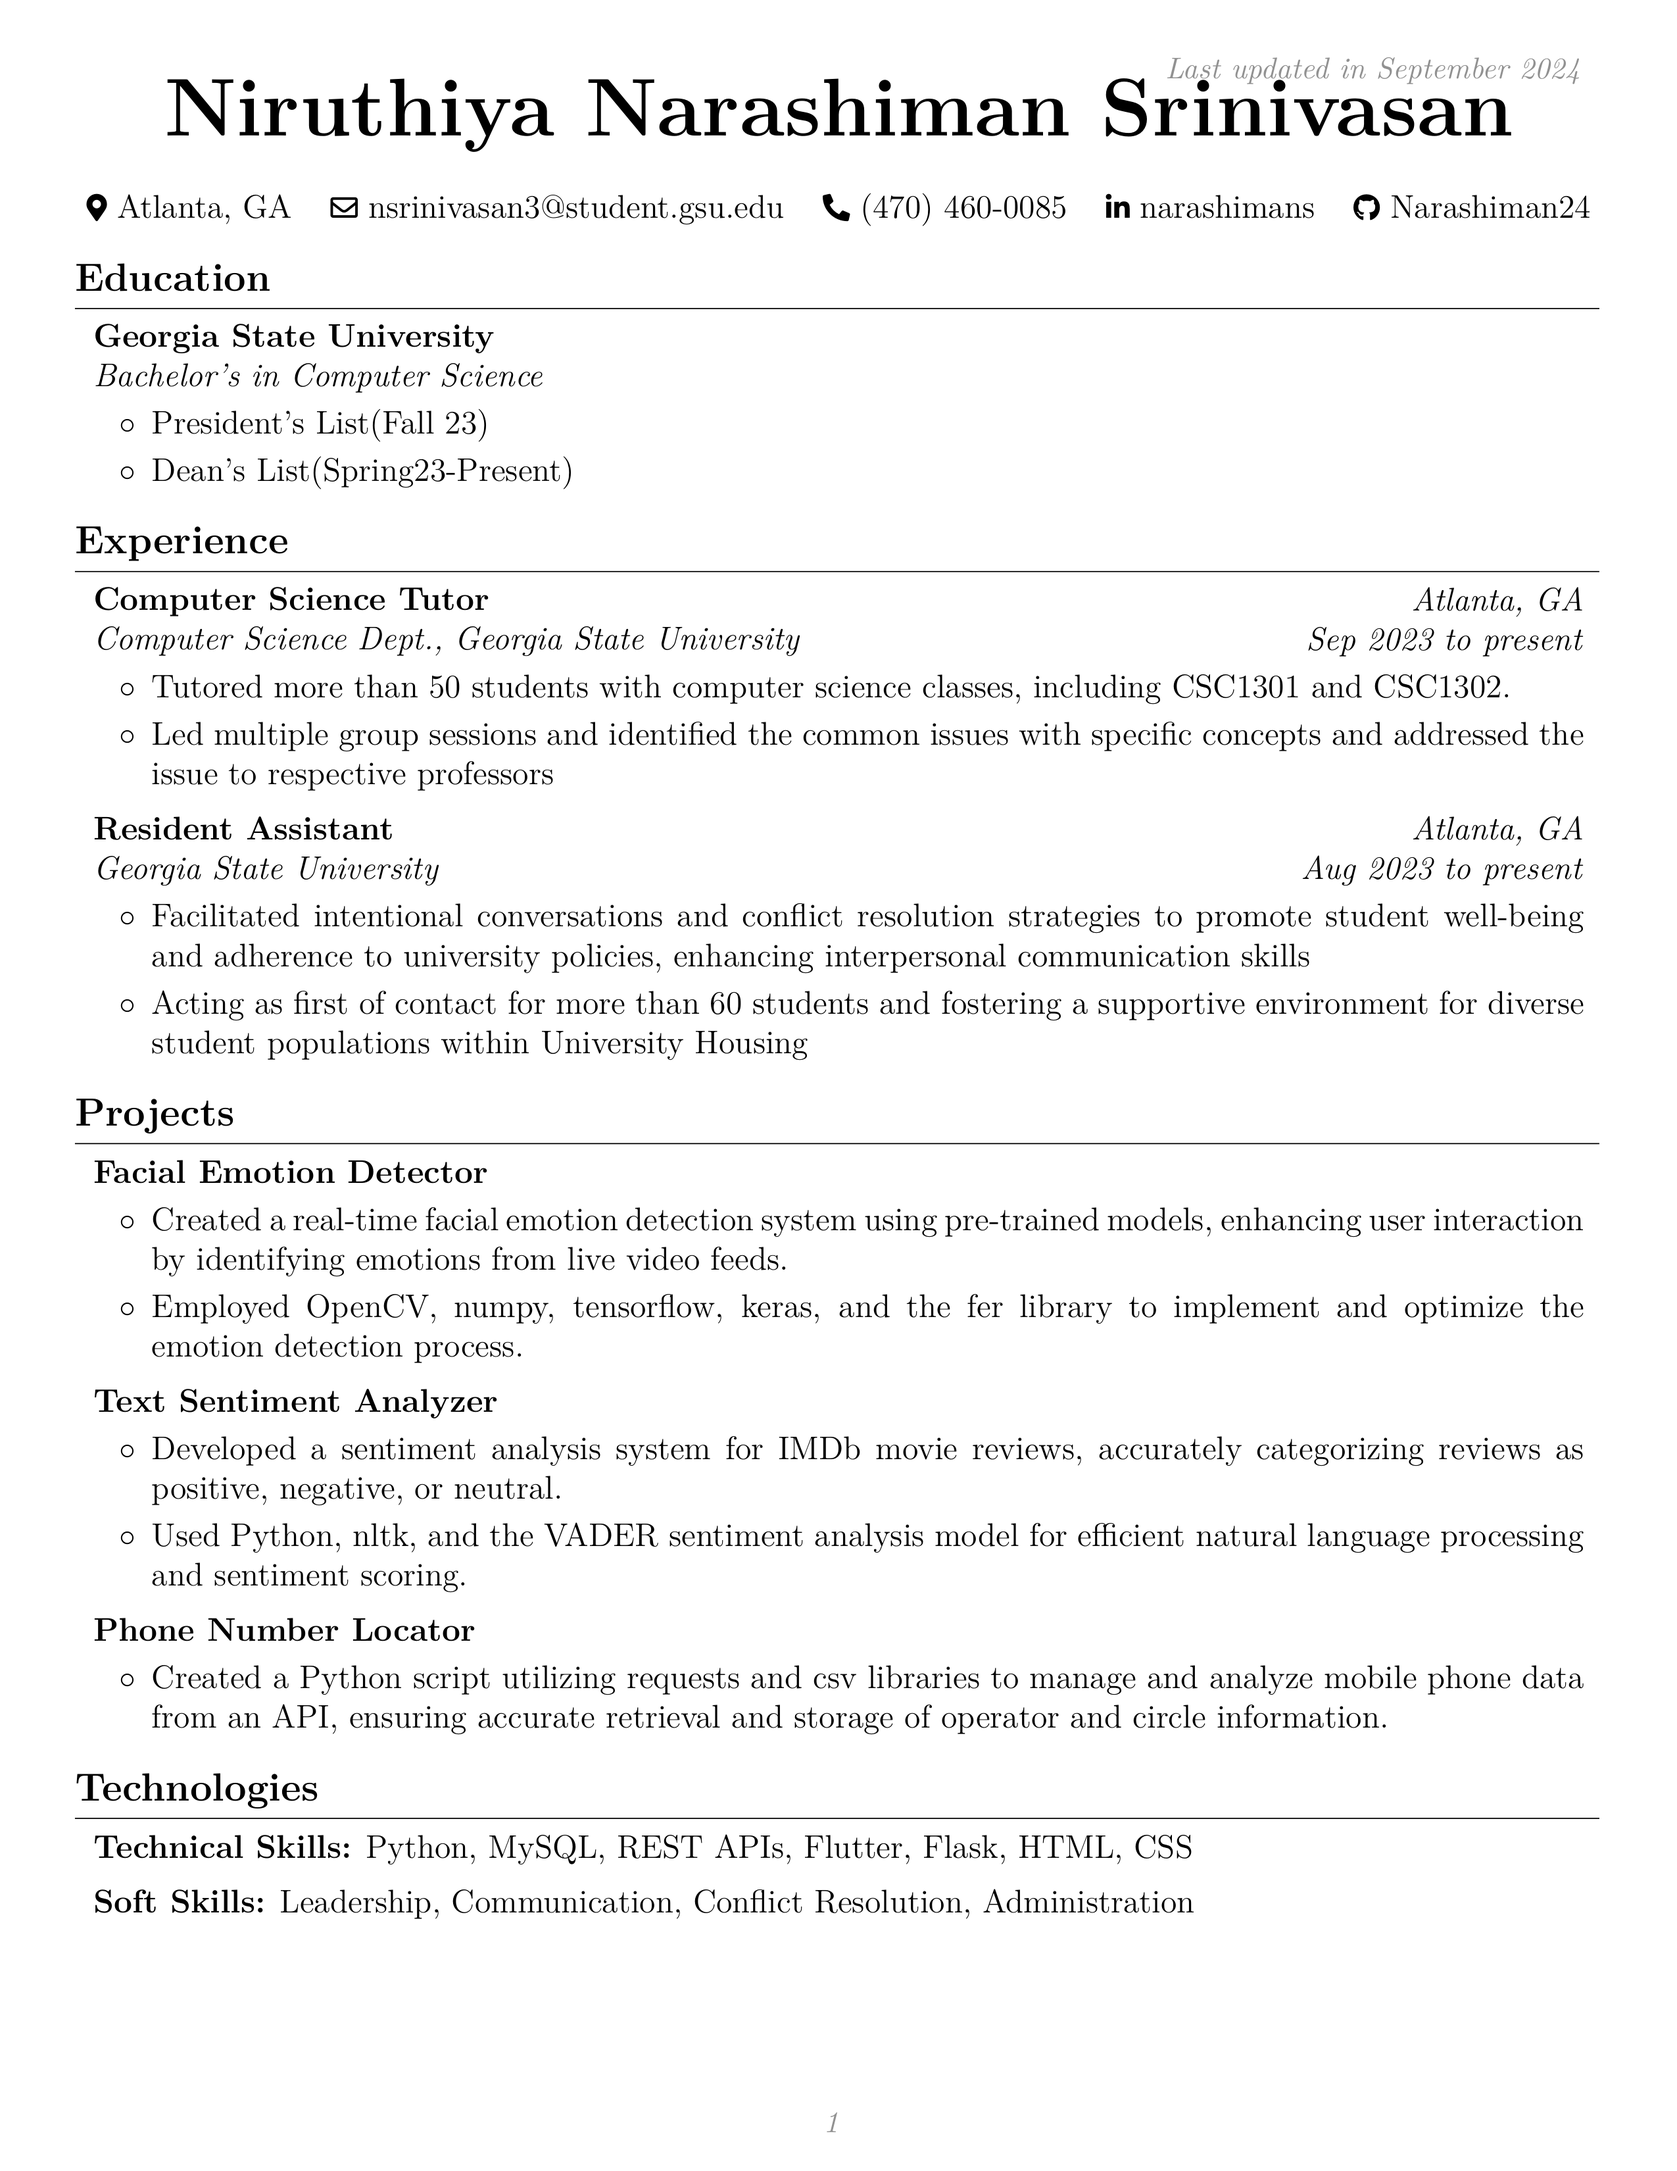
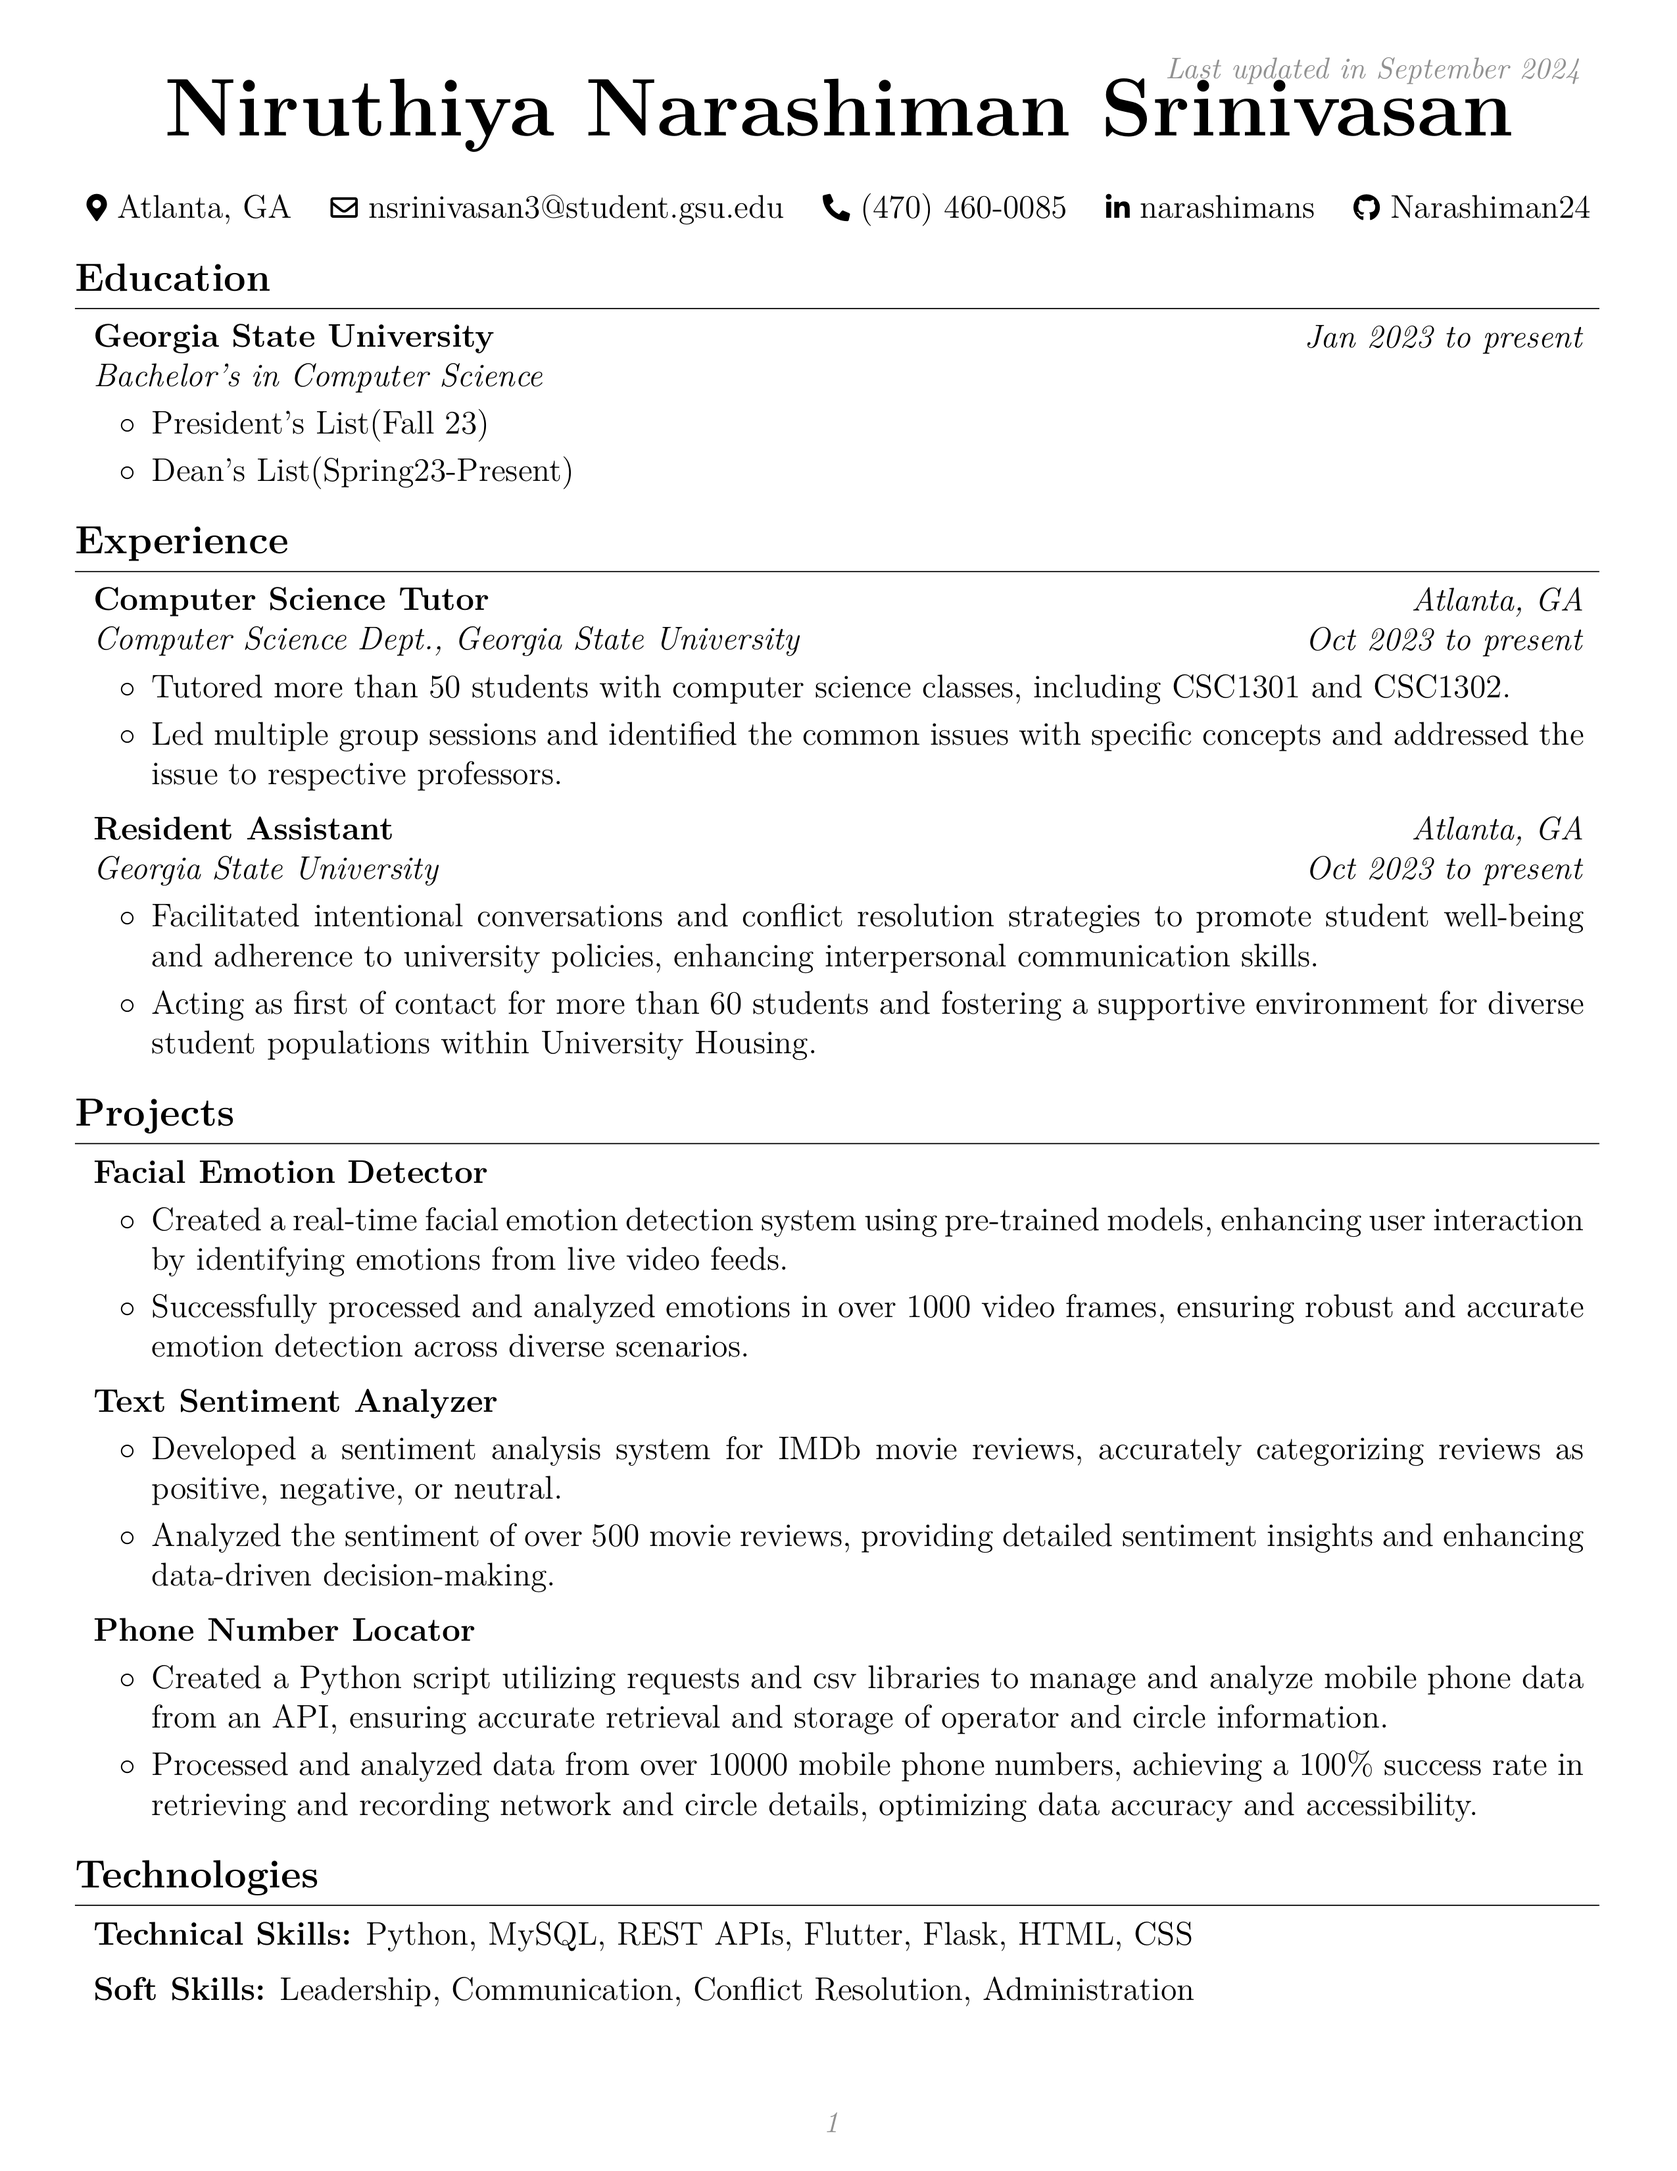
add command to python script
Add the render command into python script to skip a additional step

diff --git a/rendercv_output/Niruthiya_Narashiman_Srinivasan_CV.html b/rendercv_output/Niruthiya_Narashiman_Srinivasan_CV.html
@@ -42,38 +42,40 @@
         <h1>Education</h1>
         <h2>Georgia State University, Bachelor’s in Computer Science</h2>
         <ul>
+        <li>Jan 2023 to present</li>
         <li>President’s List(Fall 23)</li>
         <li>Dean’s List(Spring23-Present)</li>
         </ul>
         <h1>Experience</h1>
         <h2>Computer Science Dept., Georgia State University, Computer Science Tutor</h2>
         <ul>
-        <li>Sep 2023 to present</li>
+        <li>Oct 2023 to present</li>
         <li>Atlanta, GA</li>
         <li>Tutored more than 50 students with computer science classes, including CSC1301 and CSC1302.</li>
-        <li>Led multiple group sessions and identified the common issues with specific concepts and addressed the issue to respective professors</li>
+        <li>Led multiple group sessions and identified the common issues with specific concepts and addressed the issue to respective professors.</li>
         </ul>
         <h2>Georgia State University, Resident Assistant</h2>
         <ul>
-        <li>Aug 2023 to present</li>
+        <li>Oct 2023 to present</li>
         <li>Atlanta, GA</li>
-        <li>Facilitated intentional conversations and conflict resolution strategies to promote student well-being and adherence to university policies, enhancing interpersonal communication skills</li>
-        <li>Acting as first of contact for more than 60 students and fostering a supportive environment for diverse student populations within University Housing</li>
+        <li>Facilitated intentional conversations and conflict resolution strategies to promote student well-being and adherence to university policies, enhancing interpersonal communication skills.</li>
+        <li>Acting as first of contact for more than 60 students and fostering a supportive environment for diverse student populations within University Housing.</li>
         </ul>
         <h1>Projects</h1>
         <h2>Facial Emotion Detector</h2>
         <ul>
         <li>Created a real-time facial emotion detection system using pre-trained models, enhancing user interaction by identifying emotions from live video feeds.</li>
-        <li>Employed OpenCV, numpy, tensorflow, keras, and the fer library to implement and optimize the emotion detection process.</li>
+        <li>Successfully processed and analyzed emotions in over 1000 video frames, ensuring robust and accurate emotion detection across diverse scenarios.</li>
         </ul>
         <h2>Text Sentiment Analyzer</h2>
         <ul>
         <li>Developed a sentiment analysis system for IMDb movie reviews, accurately categorizing reviews as positive, negative, or neutral.</li>
-        <li>Used Python, nltk, and the VADER sentiment analysis model for efficient natural language processing and sentiment scoring.</li>
+        <li>Analyzed the sentiment of over 500 movie reviews, providing detailed sentiment insights and enhancing data-driven decision-making.</li>
         </ul>
         <h2>Phone Number Locator</h2>
         <ul>
         <li>Created a Python script utilizing requests and csv libraries to manage and analyze mobile phone data from an API, ensuring accurate retrieval and storage of operator and circle information.</li>
+        <li>Processed and analyzed data from over 10000 mobile phone numbers, achieving a 100% success rate in retrieving and recording network and circle details, optimizing data accuracy and accessibility.</li>
         </ul>
         <h1>Technologies</h1>
         <ul>

diff --git a/rendercv_output/Niruthiya_Narashiman_Srinivasan_CV.tex b/rendercv_output/Niruthiya_Narashiman_Srinivasan_CV.tex
@@ -186,11 +186,14 @@
 
 
         
-        \begin{onecolentry}
+        \begin{twocolentry}{
+
+
+        \textit{Jan 2023 to present}}
             \textbf{Georgia State University}
 
             \textit{Bachelor’s in Computer Science}
-        \end{onecolentry}
+        \end{twocolentry}
 
         \vspace{0.10 cm}
         \begin{onecolentry}
@@ -211,7 +214,7 @@
         \begin{twocolentry}{
         \textit{Atlanta, GA}
 
-        \textit{Sep 2023 to present}}
+        \textit{Oct 2023 to present}}
             \textbf{Computer Science Tutor}
 
             \textit{Computer Science Dept., Georgia State University}
@@ -221,7 +224,7 @@
         \begin{onecolentry}
             \begin{highlights}
                 \item Tutored more than 50 students with computer science classes, including CSC1301 and CSC1302.
-                \item Led multiple group sessions and identified the common issues with specific concepts and addressed the issue to respective professors
+                \item Led multiple group sessions and identified the common issues with specific concepts and addressed the issue to respective professors.
             \end{highlights}
         \end{onecolentry}
 
@@ -231,7 +234,7 @@
         \begin{twocolentry}{
         \textit{Atlanta, GA}
 
-        \textit{Aug 2023 to present}}
+        \textit{Oct 2023 to present}}
             \textbf{Resident Assistant}
 
             \textit{Georgia State University}
@@ -240,8 +243,8 @@
         \vspace{0.10 cm}
         \begin{onecolentry}
             \begin{highlights}
-                \item Facilitated intentional conversations and conflict resolution strategies to promote student well-being and adherence to university policies, enhancing interpersonal communication skills
-                \item Acting as first of contact for more than 60 students and fostering a supportive environment for diverse student populations within University Housing
+                \item Facilitated intentional conversations and conflict resolution strategies to promote student well-being and adherence to university policies, enhancing interpersonal communication skills.
+                \item Acting as first of contact for more than 60 students and fostering a supportive environment for diverse student populations within University Housing.
             \end{highlights}
         \end{onecolentry}
 
@@ -261,7 +264,7 @@
         \begin{onecolentry}
             \begin{highlights}
                 \item Created a real-time facial emotion detection system using pre-trained models, enhancing user interaction by identifying emotions from live video feeds.
-                \item Employed OpenCV, numpy, tensorflow, keras, and the fer library to implement and optimize the emotion detection process.
+                \item Successfully processed and analyzed emotions in over 1000 video frames, ensuring robust and accurate emotion detection across diverse scenarios.
             \end{highlights}
         \end{onecolentry}
 
@@ -276,7 +279,7 @@
         \begin{onecolentry}
             \begin{highlights}
                 \item Developed a sentiment analysis system for IMDb movie reviews, accurately categorizing reviews as positive, negative, or neutral.
-                \item Used Python, nltk, and the VADER sentiment analysis model for efficient natural language processing and sentiment scoring.
+                \item Analyzed the sentiment of over 500 movie reviews, providing detailed sentiment insights and enhancing data-driven decision-making.
             \end{highlights}
         \end{onecolentry}
 
@@ -291,6 +294,7 @@
         \begin{onecolentry}
             \begin{highlights}
                 \item Created a Python script utilizing requests and csv libraries to manage and analyze mobile phone data from an API, ensuring accurate retrieval and storage of operator and circle information.
+                \item Processed and analyzed data from over 10000 mobile phone numbers, achieving a 100\% success rate in retrieving and recording network and circle details, optimizing data accuracy and accessibility.
             \end{highlights}
         \end{onecolentry}
 

diff --git a/resume.py b/resume.py
@@ -1,7 +1,7 @@
 import json
 
 my_resume = '''Niruthiya Narashiman Srinivasan
-+1(470) 460 0085 | nsrinivasan3@student.gsu.edu | Atlanta, GA | linkedin.com/narashimans
++1(470) 460 0085 | nsrinivasan3@student.gsu.edu | Atlanta, GA | linkedin.com/narashimans | Github.com/Narashiman24
 EDUCATION
 Bachelor’s of Computer Science, Georgia State University
 Relevant Coursework: System Level Programming, Data Structures, Calc II, Probability, and Stats.
@@ -160,7 +160,7 @@ locale_catalog:
   present: present  # translation of the word "present"
   to: to            # translation of the word "to"
 
-Use this json schema for refrence: {json_data}
+Use this json schema for refrence: {json_data} Date format is Please use either YYYY-MM-DD, YYYY-MM, or YYYY format or "present"!
 
 Make sure to use the exact YAML structure provided. Use indentation, colons, and hyphens properly to maintain valid YAML syntax. Fill in each section with appropriate resume information in a similar structured format.
 '''

diff --git a/main.py b/main.py
@@ -2,7 +2,7 @@ from openai import OpenAI
 import jobDescription as jd
 from resume import *
 import yaml 
-import subprocess
+import os
 
 
 myAPIkey = open("apikey.txt",'r')
@@ -53,4 +53,6 @@ rs = yaml.safe_load(enhanced_resume)
 with open('trail.yaml', 'w') as file:
     yaml.dump(rs, file)
 
-command = 'rendercv render "trail.yaml" --pdf-path "/Users/narashiman/Documents/GitHub/python_projects/ResumEnhancer" --dont-generate-markdown --dont-generate-html --dont-generate-png'
+command = 'rendercv render "trail.yaml" --pdf-path "/Users/narashiman/Documents/GitHub/python_projects/ResumEnhancer"'
+
+result = os.system(command)

diff --git a/rendercv_output/Niruthiya_Narashiman_Srinivasan_CV.md b/rendercv_output/Niruthiya_Narashiman_Srinivasan_CV.md
@@ -11,6 +11,7 @@
 
 ## Georgia State University, Bachelor’s in Computer Science
 
+- Jan 2023 to present
 - President’s List(Fall 23)
 - Dean’s List(Spring23-Present)
 
@@ -18,33 +19,34 @@
 
 ## Computer Science Dept., Georgia State University, Computer Science Tutor
 
-- Sep 2023 to present
+- Oct 2023 to present
 - Atlanta, GA
 - Tutored more than 50 students with computer science classes, including CSC1301 and CSC1302.
-- Led multiple group sessions and identified the common issues with specific concepts and addressed the issue to respective professors
+- Led multiple group sessions and identified the common issues with specific concepts and addressed the issue to respective professors.
 
 ## Georgia State University, Resident Assistant
 
-- Aug 2023 to present
+- Oct 2023 to present
 - Atlanta, GA
-- Facilitated intentional conversations and conflict resolution strategies to promote student well-being and adherence to university policies, enhancing interpersonal communication skills
-- Acting as first of contact for more than 60 students and fostering a supportive environment for diverse student populations within University Housing
+- Facilitated intentional conversations and conflict resolution strategies to promote student well-being and adherence to university policies, enhancing interpersonal communication skills.
+- Acting as first of contact for more than 60 students and fostering a supportive environment for diverse student populations within University Housing.
 
 # Projects
 
 ## Facial Emotion Detector
 
 - Created a real-time facial emotion detection system using pre-trained models, enhancing user interaction by identifying emotions from live video feeds.
-- Employed OpenCV, numpy, tensorflow, keras, and the fer library to implement and optimize the emotion detection process.
+- Successfully processed and analyzed emotions in over 1000 video frames, ensuring robust and accurate emotion detection across diverse scenarios.
 
 ## Text Sentiment Analyzer
 
 - Developed a sentiment analysis system for IMDb movie reviews, accurately categorizing reviews as positive, negative, or neutral.
-- Used Python, nltk, and the VADER sentiment analysis model for efficient natural language processing and sentiment scoring.
+- Analyzed the sentiment of over 500 movie reviews, providing detailed sentiment insights and enhancing data-driven decision-making.
 
 ## Phone Number Locator
 
 - Created a Python script utilizing requests and csv libraries to manage and analyze mobile phone data from an API, ensuring accurate retrieval and storage of operator and circle information.
+- Processed and analyzed data from over 10000 mobile phone numbers, achieving a 100% success rate in retrieving and recording network and circle details, optimizing data accuracy and accessibility.
 
 # Technologies
 
